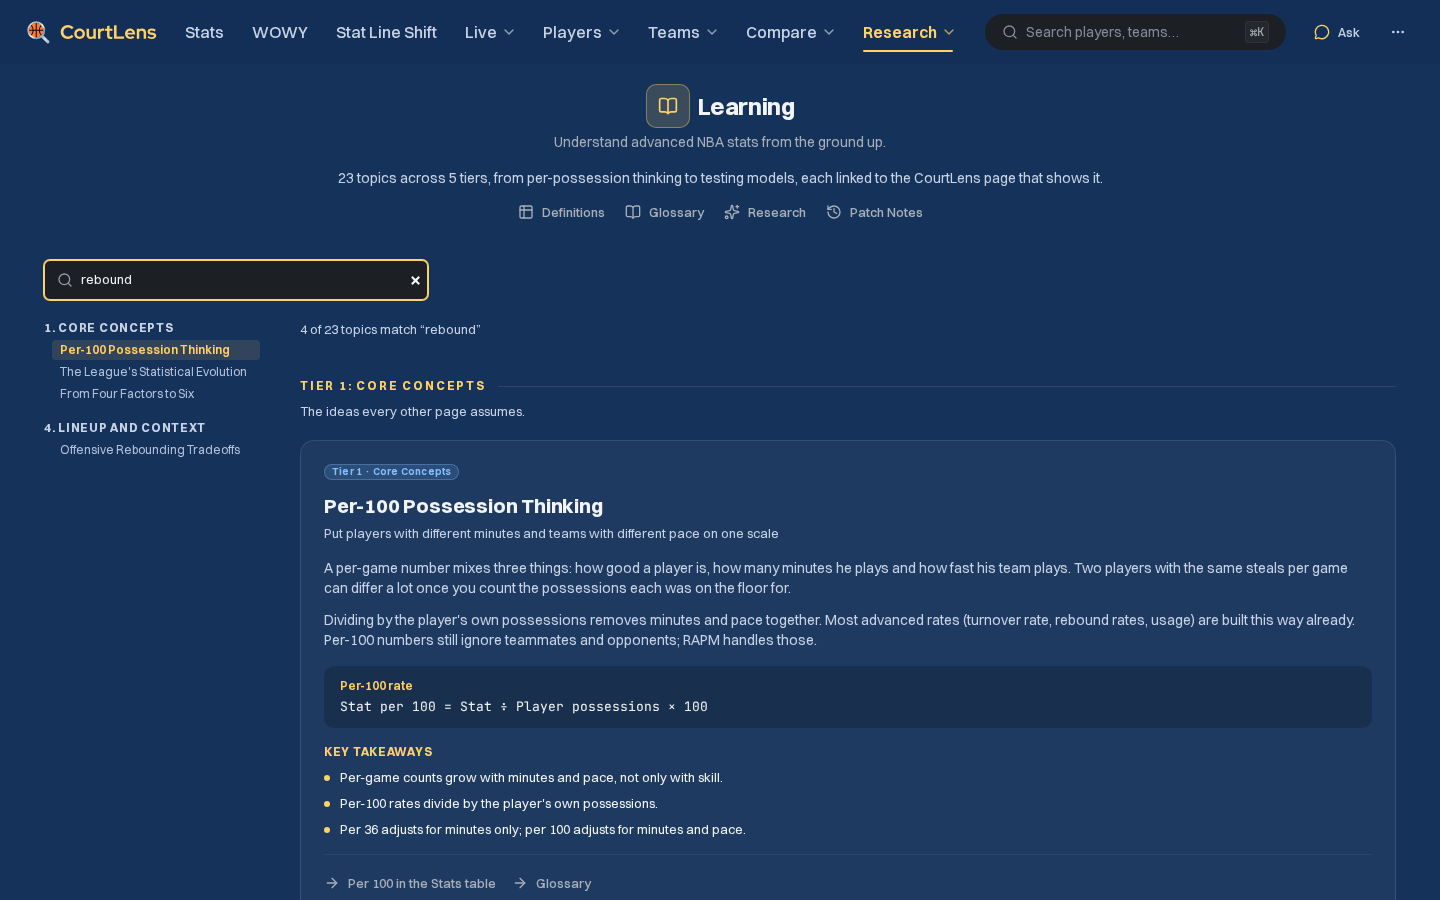
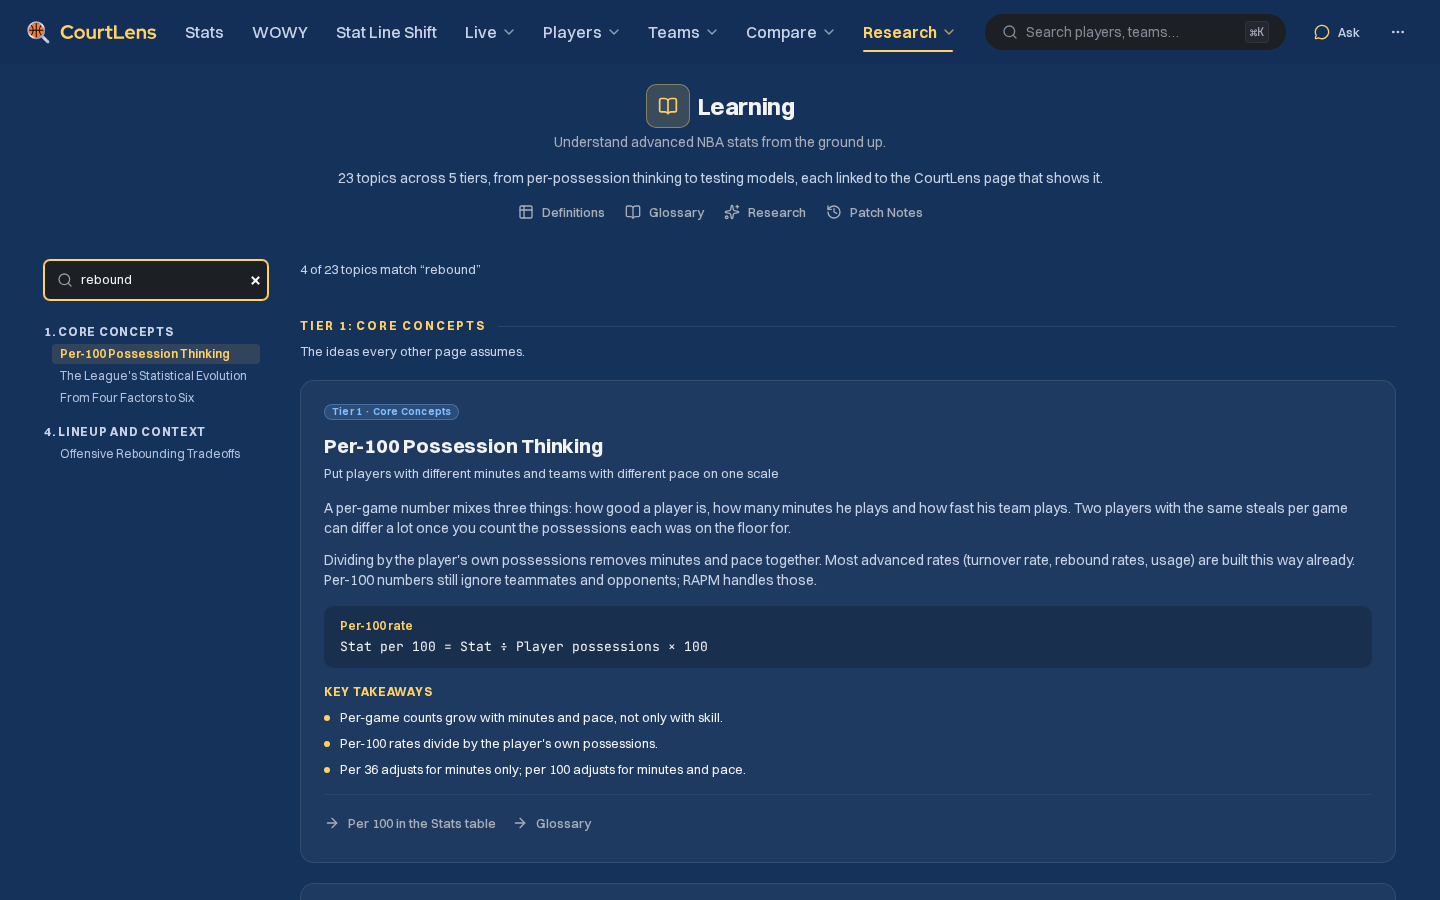
feat(design): RD06 rounds 2 and 3, the topic search heads the index column
The search moves into the sticky index column at its 224 px width, 24 px above the first tier;
full width above the Topics button on a phone. Real data: 620 values, 0 mismatches.

diff --git a/dashboard/e2e/r11-learning-patch-notes.spec.ts b/dashboard/e2e/r11-learning-patch-notes.spec.ts
@@ -71,6 +71,23 @@ test.describe("R11 Learning (RD06 design)", () => {
     await expect(index.locator("[aria-current]")).toHaveCount(1);
   });
 
+  test("the search heads the index column at its width and stays with it (RD06 round 2)", async ({ page }) => {
+    await openWorkbench(page, "/methodology/learning");
+    const search = page.getByRole("searchbox", { name: "Search topics" });
+    const index = page.getByRole("navigation", { name: "Learning topics", exact: true });
+    const column = page.locator(".ln-aside");
+    const [s, i, c] = [await search.locator("xpath=ancestor::div[contains(@class,'ln-search')]").boundingBox(), await index.boundingBox(), await column.boundingBox()];
+    expect(Math.abs(s!.x - c!.x)).toBeLessThanOrEqual(1);
+    expect(Math.abs(s!.width - c!.width)).toBeLessThanOrEqual(1);
+    expect(Math.round(i!.y - (s!.y + s!.height))).toBe(24); // round 3: a clear 24 px under the search
+    const top = page.locator(".ln-tier").first();
+    expect(Math.abs(s!.y - (await top.boundingBox())!.y)).toBeLessThanOrEqual(1);
+    await page.locator("article#rapm").scrollIntoViewIfNeeded();
+    await page.mouse.wheel(0, 600);
+    await expect(search).toBeInViewport();
+    await expect(index).toBeInViewport();
+  });
+
   test("shows the served league inputs for every season, in the table and the chart", async ({ page }) => {
     await openWorkbench(page, "/methodology/learning");
     const table = page.getByRole("table", { name: "League averages by season" });
@@ -101,6 +118,10 @@ test.describe("R11 Learning (RD06 design)", () => {
     await expect(page.getByRole("table", { name: "League averages by season" })).toBeVisible();
     expect(await page.evaluate(() => document.documentElement.scrollWidth <= innerWidth)).toBe(true);
     await expect(page.getByRole("navigation", { name: "Learning topics", exact: true })).toBeHidden();
+    const searchBox = (await page.getByRole("searchbox", { name: "Search topics" }).locator("xpath=ancestor::div[contains(@class,'ln-search')]").boundingBox())!;
+    const topicsButton = (await page.locator(".ln-index-phone summary").boundingBox())!;
+    expect(searchBox.y + searchBox.height).toBeLessThanOrEqual(topicsButton.y);
+    expect(Math.abs(searchBox.width - topicsButton.width)).toBeLessThanOrEqual(1);
     const phoneIndex = page.getByRole("navigation", { name: "Learning topics (phone)" });
     await expect(phoneIndex).toBeHidden();
     await page.locator(".ln-index-phone summary").click();

diff --git a/dashboard/components/learning-view.css b/dashboard/components/learning-view.css
@@ -9,13 +9,15 @@
   .ln-page .rs-intro { margin-top: calc(-1 * var(--space-4)); }
 
   .ln-body { display: grid; gap: var(--space-5); min-width: 0; }
-  .ln-search { width: 384px; max-width: 100%; }
+  .ln-search { width: 100%; min-width: 0; }
   .ln-search .stats-header-search { padding: 0; }
   .ln-layout { display: grid; grid-template-columns: 224px minmax(0, 1fr); gap: var(--space-8); align-items: start; min-width: 0; }
 
   /* Index: numbered tiers, their topics under them; the topic being read in gold. */
   .ln-aside { align-self: stretch; min-width: 0; }
-  .ln-aside .ln-index { position: sticky; top: calc(var(--header-height) + var(--space-6)); max-height: calc(100vh - var(--header-height) - var(--space-12)); overflow-y: auto; padding-right: var(--space-2); scrollbar-width: none; }
+  /* Round 2 (owner): the search heads the index column at its width and stays sticky with it. */
+  .ln-aside-sticky { position: sticky; top: calc(var(--header-height) + var(--space-6)); display: flex; flex-direction: column; gap: var(--space-6); max-height: calc(100vh - var(--header-height) - var(--space-12)); min-width: 0; }
+  .ln-aside .ln-index { flex: 1 1 auto; min-height: 0; overflow-y: auto; padding-right: var(--space-2); scrollbar-width: none; }
   .ln-index-tiers, .ln-index-topics { margin: 0; padding: 0; list-style: none; }
   .ln-index-tiers { display: grid; gap: var(--space-4); }
   .ln-index-tier { display: grid; gap: var(--space-1); }
@@ -88,14 +90,14 @@
 
   @media (max-width: 1023px) {
     .ln-layout { grid-template-columns: minmax(0, 1fr); gap: var(--space-5); }
-    .ln-aside { display: none; }
+    .ln-aside-sticky { position: static; max-height: none; }
+    .ln-aside .ln-index { display: none; }
     .ln-index-phone { display: grid; gap: var(--space-3); }
     .ln-index-phone > .ln-index { padding: var(--space-4); border-radius: var(--radius-lg); background: var(--rs-panel); box-shadow: inset 0 0 0 1px var(--rs-rim); }
     .ln-index-phone .ln-index-link { padding-block: var(--space-2); white-space: normal; }
   }
 
   @media (max-width: 767px) {
-    .ln-search { width: 100%; }
     .ln-topic { padding: var(--space-4); }
     .ln-topics { gap: var(--space-8); }
     .ln-topic-title { font-size: var(--text-lg); line-height: var(--text-lg-lh); }

diff --git a/dashboard/components/learning-view.tsx b/dashboard/components/learning-view.tsx
@@ -119,10 +119,13 @@ export function LearningView() {
         links={[{ label: "Definitions", href: "/methodology", icon: "table" }, { label: "Glossary", href: "/stats/glossary", icon: "book" }, { label: "Research", href: "/research", icon: "sparkles" }, { label: "Patch Notes", href: "/whats-new", icon: "history" }]}
       />
       <div className="ln-body">
-        <div className="ln-search"><GridSearch value={query} onChange={setQuery} label="Search topics" placeholder="Search topics…" /></div>
         <div className="ln-layout">
+          {/* Round 2: the search heads the index column at its width and stays with it; on a phone it sits above the Topics button. */}
           <aside className="ln-aside">
-            <nav className="ln-index" aria-label="Learning topics"><TopicIndex tiers={tiers} current={current} /></nav>
+            <div className="ln-aside-sticky">
+              <div className="ln-search"><GridSearch value={query} onChange={setQuery} label="Search topics" placeholder="Search topics…" /></div>
+              <nav className="ln-index" aria-label="Learning topics"><TopicIndex tiers={tiers} current={current} /></nav>
+            </div>
           </aside>
           <details className="ln-index-phone" open={indexOpen} onToggle={event => setIndexOpen(event.currentTarget.open)}>
             <ButtonSummary size="md" variant="secondary" icon="list-ordered" iconAfter="chevron-down">Topics ({shown})</ButtonSummary>

diff --git a/docs/evidence/research/design-RD06/README.md b/docs/evidence/research/design-RD06/README.md
@@ -79,3 +79,31 @@ added as a CourtLens topic with no Measured box.
 **Found in passing (not changed):** `--space-1-5` is not a defined token, so the rules in `zts-research.css`,
 `shot-quality-research.css`, `shared-floor-view.css` and `playoffs-bracket-view.css` that use it fall back to no spacing. RD06
 uses defined tokens only.
+
+## Rounds 2 and 3 (owner, 2026-11-08)
+
+Round 2: "the search topics bar is arbitrarily placed. Should we make it width of column" (screenshot: the desktop index with the
+384 px search above it, running past the index into the gap). Round 3, sent during the build: "it's squished to the content below
+it. Add a natural padding" (screenshot: the search over "1. Core Concepts"). The round 3 screenshot showed a ~4 px gap and an
+indented field, which the sandbox build did not (16 px, flush): likely :3100's stale CSS for an edited imported file. The gap was
+widened regardless.
+
+**Built**
+
+- The search moved into the index column (`.ln-aside-sticky`): the column's width (224 px), at its top, sticky with the index while
+  the cards scroll; 24 px between the search and "1. Core Concepts" (16 px separates the tiers, so the search no longer reads as
+  part of the list). Its top aligns with the first tier heading. Below 1024 px it stays full width above the Topics button.
+- No other change; no API, analysis or result.
+
+**Checks**
+
+- Lint 0/0, typecheck clean, Vitest 830.
+- `r11-learning-patch-notes`: 8/8 three times (new test: the search's x and width equal the index column's, a 24 px gap, top
+  aligned with the first tier, still in view after scrolling; the phone test checks it sits above the Topics button at its width).
+- Full Playwright in the sandbox on the final build: **604 passed, 17 skipped, 0 failed**.
+- Real-data check through `readonly-proxy.mjs` at 1440 and 390: **620 values, 0 mismatches** (the round 1 checks plus placement:
+  search x and width = the index column's, 24 px gap; on the phone above the Topics button at its width); 0 console errors, 0
+  overflow, 0 broken images, no phone control or `ButtonLink` under 40 px.
+- Glance test, screenshots viewed: `learning-search-placement-1440.png` (the index column), `learning-search-placement-390.png`,
+  `learning-default-*`. Screenshots from round 1 were retaken on this build.
+

diff --git a/docs/research-progress.md b/docs/research-progress.md
@@ -733,3 +733,15 @@ suggestions for optimal construction of the page. Comprehensively build it out n
   `ButtonLink` under 40 px.
 - **Not done.** The owner's review and ✅.
 
+## 2026-11-08 — RD06 rounds 2 and 3: the search heads the index column
+
+[Evidence](evidence/research/design-RD06/README.md#rounds-2-and-3-owner-2026-11-08). Owner: "the search topics bar is arbitrarily
+placed. Should we make it width of column", then "it's squished to the content below it. Add a natural padding".
+
+- **Change.** The topic search moved into the index column at its 224 px width, sticky with the index, 24 px above the first tier;
+  full width above the Topics button on a phone. The owner's round 3 screenshot (a ~4 px gap) did not match the sandbox build
+  (16 px), most likely :3100's stale CSS; the gap was widened anyway.
+- **Checks.** Lint 0/0, typecheck, Vitest 830; `r11-learning-patch-notes` 8/8 ×3; full Playwright 604 passed, 17 skipped, 0
+  failed; real data 620 values, 0 mismatches, 0 console errors, 0 overflow, 0 broken images, no phone control under 40 px.
+- **Not done.** The owner's review and ✅.
+

diff --git a/docs/research-design-catalog.md b/docs/research-design-catalog.md
@@ -533,6 +533,14 @@ and suggestions for optimal construction of the page. Comprehensively build it o
 
 Evidence: [`design-RD06`](evidence/research/design-RD06/README.md).
 
+Instructions (owner, 2026-11-08, round 2; screenshot: the desktop index with the search field above it):
+2. [x] the search topics bar is arbitrarily placed. Should we make it width of column
+   - Agent's answer, built: the index column's width (224 px), at the top of that column, sticky with the index; full width above
+     the Topics button on a phone.
+3. [x] it's squished to the content below it. Add a natural padding (screenshot: the search over "1. Core Concepts").
+   — The search now heads the index column at its 224 px width and stays sticky with it, 24 px above "1. Core Concepts"; full width
+   above the Topics button on a phone. Real data 620 values, 0 mismatches.
+
 ## RD07 Patch Notes — ⬜
 
 - **Now:** releases newest first (merged PRs and the research branch), grouped entries with badge, date,
